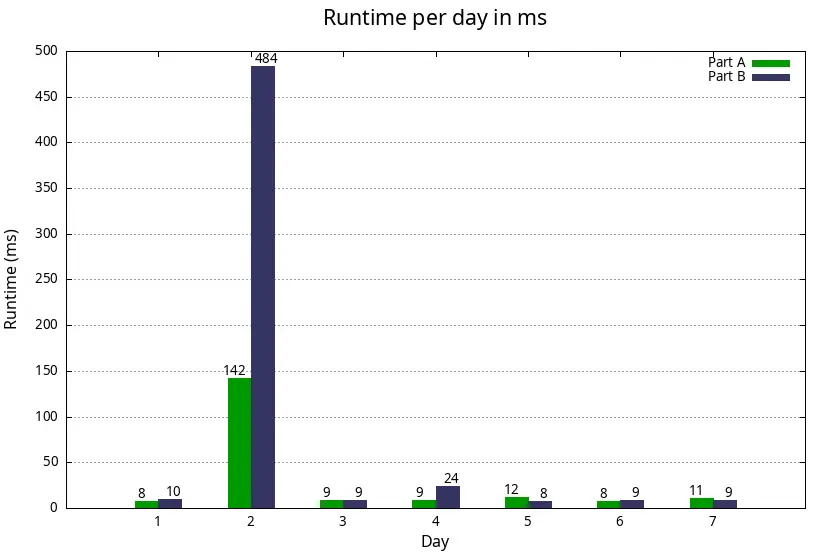
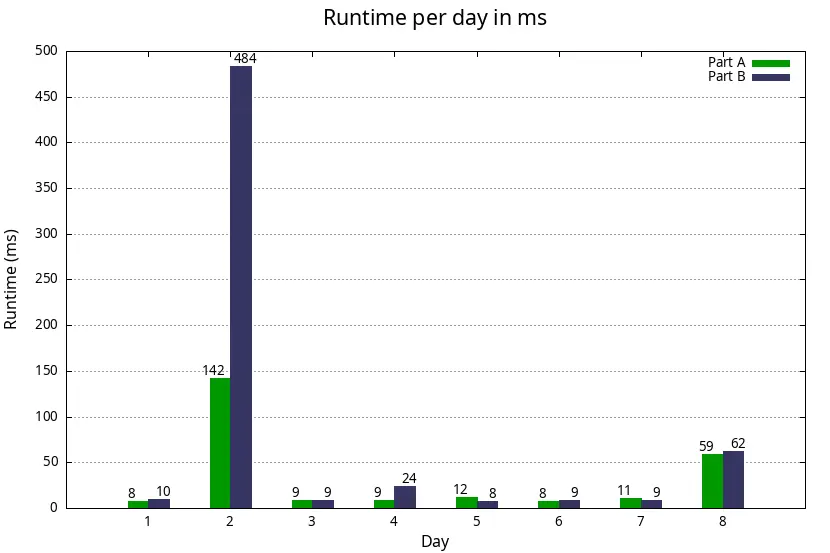
day 8

Changed region(s): [[0.1506, 0.0922, 0.9036, 0.953]]

diff --git a/src/07/b.ts b/src/07/b.ts
@@ -7,8 +7,6 @@ const grid = lines
 
 const cache = new Map<string, number>();
 
-const ROWS = grid.length - 1;
-
 const S = grid[0].findIndex((x) => x === "S");
 
 function numDifferentTimelines(y: number, x: number): number {
@@ -21,12 +19,12 @@ function numDifferentTimelines(y: number, x: number): number {
 }
 
 function _numDifferentTimelines(y: number, x: number): number {
-  if (grid[y]?.[x] === undefined) return 0;
-
-  if (y === ROWS) return 1;
+  if (y === grid.length - 1) return 1;
 
   if (grid[y][x] === "^") {
-    return numDifferentTimelines(y, x - 1) + numDifferentTimelines(y, x + 1);
+    return (
+      numDifferentTimelines(y + 1, x - 1) + numDifferentTimelines(y + 1, x + 1)
+    );
   }
 
   return numDifferentTimelines(y + 1, x);
@@ -53,17 +51,10 @@ console.log(numDifferentTimelines(0, S));
 
 // [ ,  ,  ,  ,   ,   ,   , 40,   ,  ,  ,  ,  ,  ,  ]
 // [ ,  ,  ,  ,   ,   ,   , 40,   ,  ,  ,  ,  ,  ,  ]
-// [ ,  ,  ,  ,   ,   , 25, 40, 15,  ,  ,  ,  ,  ,  ]
 // [ ,  ,  ,  ,   ,   , 25,   , 15,  ,  ,  ,  ,  ,  ]
-// [ ,  ,  ,  ,   , 17, 25, 8 , 15, 7,  ,  ,  ,  ,  ]
 // [ ,  ,  ,  ,   , 17,   , 8 ,   , 7,  ,  ,  ,  ,  ]
-// [ ,  ,  ,  , 10, 17, 7 , 8 , 1 , 7, 6,  ,  ,  ,  ]
 // [ ,  ,  ,  , 10,   , 7 ,   , 1 ,  , 6,  ,  ,  ,  ]
-// [ ,  ,  , 5, 10, 5 , 7 , 2 , 1 , 2, 6, 4,  ,  ,  ]
 // [ ,  ,  , 5,   , 5 ,   , 2 , 1 , 2,  , 4,  ,  ,  ]
-// [ ,  , 4, 5, 1 , 5 , 4 , 2 , 1 , 2, 1, 4, 3,  ,  ]
 // [ ,  , 4,  , 1 ,   , 4 , 2 , 1 ,  , 1,  , 3,  ,  ]
-// [ , 2, 4, 2, 1 , 2 , 4 , 2 , 1 ,  , 1, 1, 3, 2,  ]
 // [ , 2,  , 2, 1 , 2 ,   , 2 , 1 ,  , 1, 1,  , 2,  ]
-// [1, 2, 1, 2, 1 , 2 , 1 , 2 , 1 ,  , 1, 1, 1, 2, 1]
 // [1,  , 1,  , 1 ,   , 1 ,   , 1 ,  , 1, 1, 1,  , 1]

diff --git a/src/08/box.ts b/src/08/box.ts
@@ -1,0 +1,65 @@
+import { Heap } from "../../helpers/heap";
+
+type BoxPair = [number, number, number];
+
+export async function parse() {
+  const lines = await Bun.file("input.txt").text();
+
+  const boxes = lines
+    .trim()
+    .split("\n")
+    .map((x) => x.split(",").map(Number));
+
+  const pairsToConnect = new Heap<BoxPair>((a, b) => a[2] - b[2], []);
+
+  for (let a = 0; a < boxes.length; a++) {
+    const [x1, y1, z1] = boxes[a];
+
+    for (let b = a + 1; b < boxes.length; b++) {
+      const [x2, y2, z2] = boxes[b];
+
+      const distance =
+        Math.abs(x1 - x2) ** 2 +
+        Math.abs(y1 - y2) ** 2 +
+        Math.abs(z1 - z2) ** 2;
+
+      pairsToConnect.insert([a, b, distance]);
+    }
+  }
+
+  return { boxes, pairsToConnect };
+}
+
+export class UnionFind {
+  private parents: number[];
+  public circuitSizes: number[];
+
+  constructor(size: number) {
+    this.parents = Array.from({ length: size }, (_, i) => i);
+    this.circuitSizes = Array.from({ length: size }, () => 1);
+  }
+
+  findCircuit(index: number): number {
+    if (this.parents[index] === index) return index;
+
+    this.parents[index] = this.findCircuit(this.parents[index]);
+
+    return this.parents[index];
+  }
+
+  connect(a: number, b: number): number {
+    let A = this.findCircuit(a);
+    let B = this.findCircuit(b);
+
+    if (A === B) return 0;
+
+    if (this.circuitSizes[A] > this.circuitSizes[B]) {
+      [A, B] = [B, A];
+    }
+
+    this.parents[A] = B;
+    this.circuitSizes[B] += this.circuitSizes[A];
+
+    return this.circuitSizes[B];
+  }
+}

diff --git a/src/08/b.ts b/src/08/b.ts
@@ -1,0 +1,20 @@
+import { parse, UnionFind } from "./box";
+
+const { boxes, pairsToConnect } = await parse();
+
+const uf = new UnionFind(boxes.length);
+
+while (pairsToConnect.size() > 0) {
+  const [a, b, _] = pairsToConnect.pop()!;
+
+  if (uf.findCircuit(a) === uf.findCircuit(b)) continue;
+
+  const numConnected = uf.connect(a, b);
+
+  if (numConnected === boxes.length) {
+    const [x1, _y1, _z1] = boxes[a];
+    const [x2, _y2, _z2] = boxes[b];
+    console.log(x1 * x2);
+    break;
+  }
+}

diff --git a/src/08/a.ts b/src/08/a.ts
@@ -1,0 +1,20 @@
+import { parse, UnionFind } from "./box";
+
+const { boxes, pairsToConnect } = await parse();
+
+const uf = new UnionFind(boxes.length);
+
+for (let connected = 0; connected < 1000; connected++) {
+  const [a, b, _] = pairsToConnect.pop()!;
+  uf.connect(a, b);
+}
+
+for (let i = 0; i < boxes.length; i++) {
+  uf.findCircuit(i);
+}
+
+uf.circuitSizes.sort((a, b) => b - a);
+
+const result = uf.circuitSizes[0] * uf.circuitSizes[1] * uf.circuitSizes[2];
+
+console.log(result);

diff --git a/README.md b/README.md
@@ -4,7 +4,7 @@ https://adventofcode.com/2025 by [Eric Wastl](http://was.tl/)
 
 Solutions using TypeScript with Bun (v1.3.2)
 
-💫💫💫💫💫💫💫🌑🌑🌑🌑🌑
+💫💫💫💫💫💫💫💫🌑🌑🌑🌑
 
 ## 1. Requirements
 
